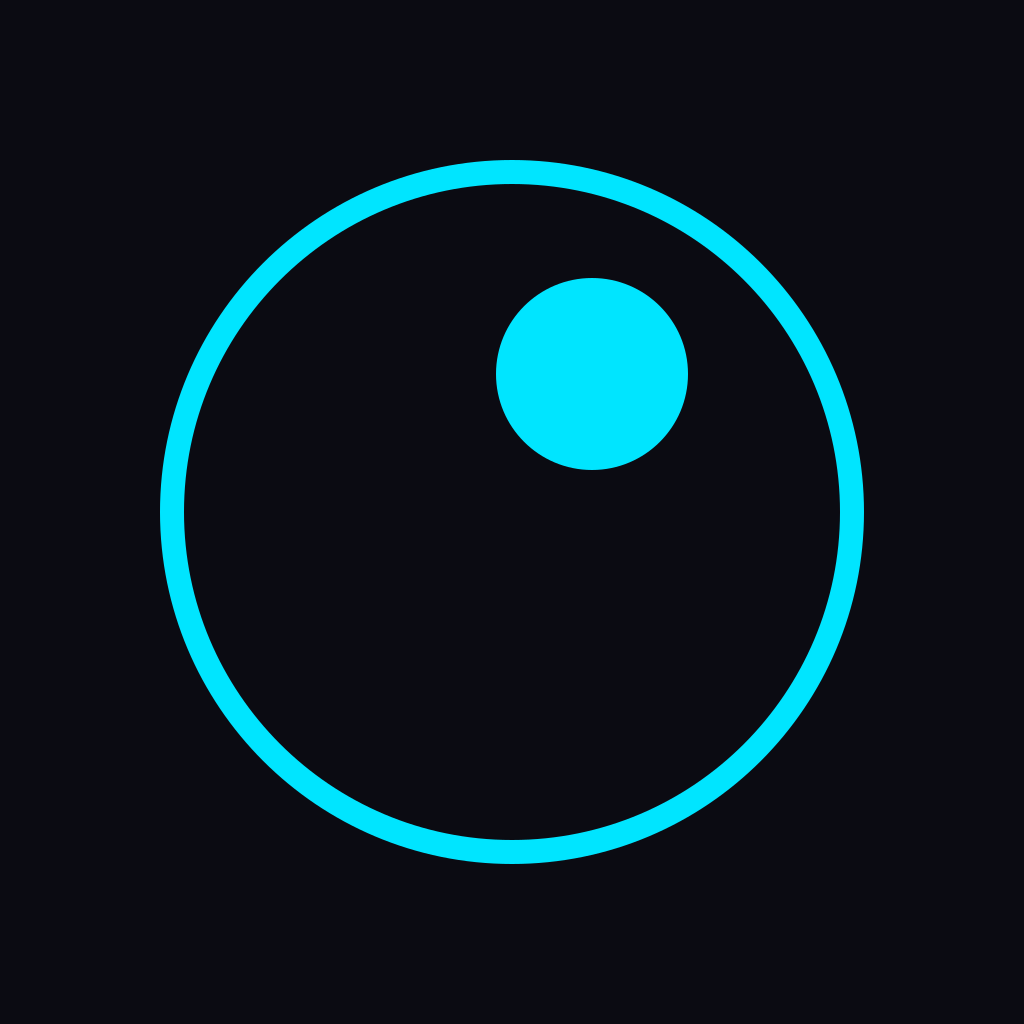
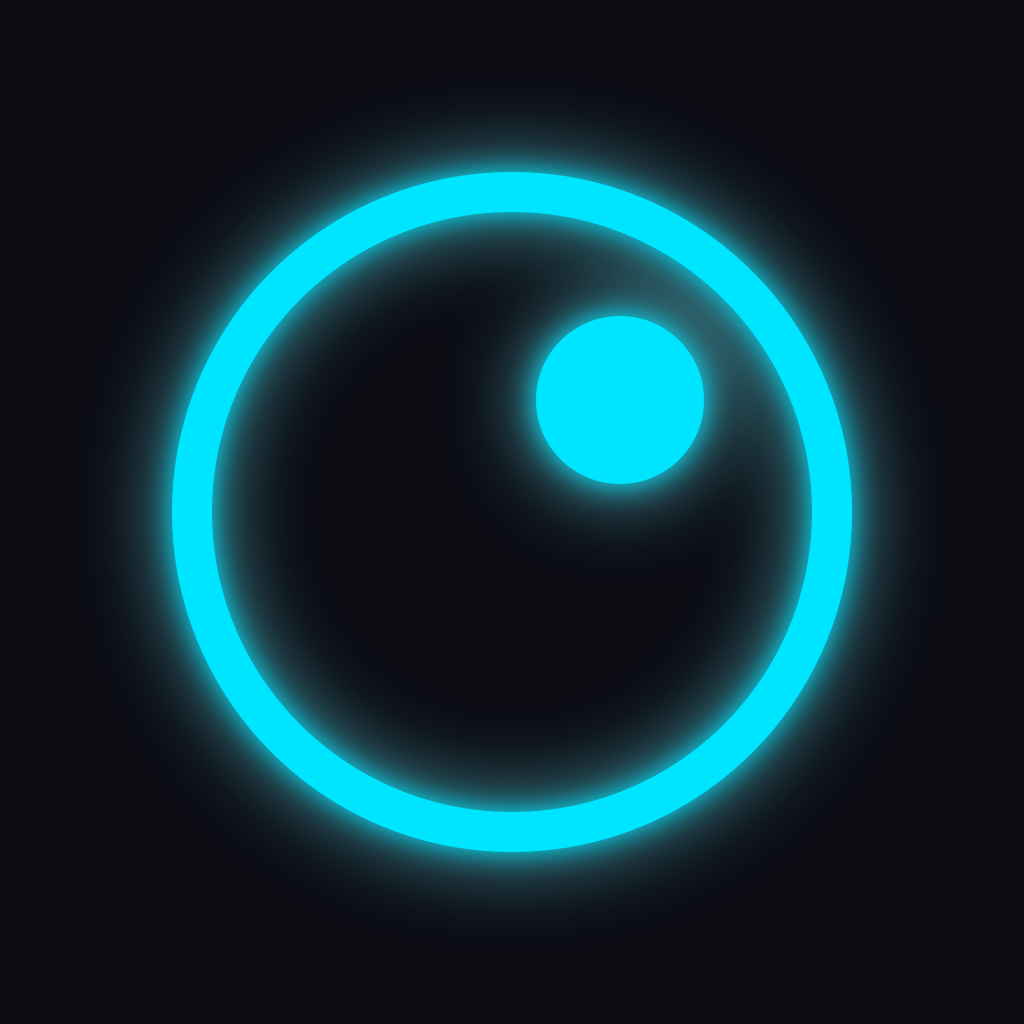
tir: TestFlight beta — status flip, CTA, fresh screenshots + OG
- studio index: tir tile flips from "coming soon" to "in TestFlight beta".
- tir/index.html: adds hero TestFlight CTA (mailto support@) + footer copy
  swap from "coming to the App Store soon" to "live on TestFlight today.
  App Store soon." with invite link.
- tir/style.css: cta-group + cta-button + cta-apple styling for the new
  TestFlight button.
- tir/images: refreshed icon-1024 / icon-180 / favicon-32 to the new
  off-center NE mark; replaced screen-game and screen-home with fresh
  iPhone 17 Pro Max captures (1320x2868); regenerated og-cover.png from
  scripts/brand/generate-og.py (sister repo).
- tir/privacy.html + tir/support.html: last-updated date bump to 2026-05-25.

Changed region(s): [[0.125, 0.125, 0.875, 0.875]]

diff --git a/tir/style.css b/tir/style.css
@@ -195,6 +195,78 @@ h1 {
   border-radius: clamp(26px, 9vw, 38px);
 }
 
+/* ----------------------------------------------------------- CTA --- */
+/* CTA button: pill, accent-on-hover. Sibling of hum's CTA pattern,
+   tinted with tir's cyan accent in the focus / hover halo. */
+
+.cta-group {
+  display: flex;
+  flex-wrap: wrap;
+  justify-content: center;
+  gap: 0.75rem;
+  margin: clamp(1.6rem, 4vw, 2.2rem) 0 0;
+}
+
+.cta-button {
+  display: inline-flex;
+  align-items: center;
+  justify-content: center;
+  gap: 0.6rem;
+  min-height: 48px;
+  padding: 0.85rem 1.6rem;
+  background: var(--text);
+  color: var(--bg);
+  font-size: 1rem;
+  font-weight: 500;
+  letter-spacing: -0.01em;
+  border-radius: 999px;
+  text-decoration: none;
+  white-space: nowrap;
+  border: 1px solid transparent;
+  transition: transform 0.15s ease, box-shadow 0.2s ease;
+}
+
+.cta-button:hover,
+.cta-button:focus-visible {
+  transform: translateY(-1px);
+  box-shadow: 0 8px 32px rgba(0, 229, 255, 0.22);
+}
+
+.cta-button:focus-visible {
+  outline: 2px solid var(--accent);
+  outline-offset: 3px;
+}
+
+.cta-button:active { transform: translateY(0); }
+
+.cta-button--secondary {
+  background: transparent;
+  color: var(--text);
+  border-color: var(--border);
+}
+
+.cta-button--secondary:hover,
+.cta-button--secondary:focus-visible {
+  border-color: var(--accent);
+  box-shadow: 0 8px 32px rgba(0, 229, 255, 0.12);
+}
+
+.cta-apple { flex-shrink: 0; }
+
+@media (max-width: 640px) {
+  .cta-group {
+    flex-direction: column;
+    align-items: stretch;
+    max-width: 22rem;
+    margin-inline: auto;
+  }
+  .cta-group .cta-button {
+    width: 100%;
+    padding: 0.9rem 1.2rem;
+    font-size: 0.98rem;
+  }
+}
+
 .trust-row {
   list-style: none;
   padding: 0;
@@ -456,7 +528,8 @@ body.page-doc .meta {
   h1            { animation: rise 0.7s cubic-bezier(.2,.7,.2,1) 0.1s both; }
   .hero-sub     { animation: rise 0.7s cubic-bezier(.2,.7,.2,1) 0.15s both; }
   .hero-stage   { animation: rise 0.8s cubic-bezier(.2,.7,.2,1) 0.22s both; }
-  .trust-row    { animation: rise 0.6s cubic-bezier(.2,.7,.2,1) 0.35s both; }
+  .cta-group    { animation: rise 0.6s cubic-bezier(.2,.7,.2,1) 0.30s both; }
+  .trust-row    { animation: rise 0.6s cubic-bezier(.2,.7,.2,1) 0.38s both; }
 }
 
 @keyframes rise {

diff --git a/tir/index.html b/tir/index.html
@@ -76,6 +76,13 @@
           </div>
         </div>
 
+        <div class="cta-group">
+          <a href="mailto:support@aaam.dev?subject=tir%20testflight%20invite" class="cta-button" aria-label="Request a TestFlight invite for tir">
+            <svg class="cta-apple" width="18" height="18" viewBox="0 0 384 512" fill="currentColor" aria-hidden="true"><path d="M318.7 268.7c-.2-36.7 16.4-64.4 50-84.8-18.8-26.9-47.2-41.7-84.7-44.6-35.5-2.8-74.3 20.7-88.5 20.7-15 0-49.4-19.7-76.4-19.7C63.3 141.2 4 184 4 276.8c0 27.3 4.9 55.6 14.7 84.9 13.1 39.1 60.3 134.9 109.4 133.2 25.7-.6 43.8-18.3 77.3-18.3 32.4 0 49.2 18.3 77.3 17.7 48.3-.8 90.8-83.8 103.6-123 .2-.7.4-1.3.6-2-61.8-26.1-64.2-92.8-64.2-100.6zM256 50.9c29-33.8 26.6-65 25.8-76.3-25.8 1.5-55.6 17.3-72.8 37.3-18.8 21.7-29.8 48.5-27.5 77.3 28.6 2.2 55.9-13.3 74.5-38.3z"/></svg>
+            join the TestFlight beta
+          </a>
+        </div>
+
         <ul class="trust-row" aria-label="what tir is">
           <li>no signup</li>
           <li>no ads</li>
@@ -126,7 +133,11 @@
 
       <section class="final-cta">
         <h2>drop in.</h2>
-        <p>coming to the App Store soon.</p>
+        <p>
+          live on TestFlight today. App Store soon.
+          <br />
+          <a href="mailto:support@aaam.dev?subject=tir%20testflight%20invite">email for an invite</a>.
+        </p>
       </section>
     </main>
 

diff --git a/tir/privacy.html b/tir/privacy.html
@@ -27,7 +27,7 @@
 
     <main class="privacy">
       <h1>privacy policy</h1>
-      <p class="meta">last updated: may 10, 2026 &middot; operator: <strong>aaam.dev</strong></p>
+      <p class="meta">last updated: may 25, 2026 &middot; operator: <strong>aaam.dev</strong></p>
 
       <h2>Who the app is for</h2>
       <p>
@@ -138,7 +138,7 @@
         <a href="support.html">support</a>
         <a href="mailto:support@aaam.dev">contact</a>
       </nav>
-      <p class="footer-meta"><a href="/">aaam.dev</a> &middot; updated may 10, 2026</p>
+      <p class="footer-meta"><a href="/">aaam.dev</a> &middot; updated may 25, 2026</p>
     </footer>
   </body>
 </html>

diff --git a/tir/support.html b/tir/support.html
@@ -36,7 +36,7 @@
           <strong>Email:</strong>
           <a href="mailto:support@aaam.dev">support@aaam.dev</a>
         </p>
-        <p class="meta">aaam.dev · last updated may 10, 2026</p>
+        <p class="meta">aaam.dev · last updated may 25, 2026</p>
       </div>
 
       <div class="card">
@@ -152,7 +152,7 @@
         <a href="privacy.html">privacy</a>
         <a href="mailto:support@aaam.dev">contact</a>
       </nav>
-      <p class="footer-meta"><a href="/">aaam.dev</a> &middot; updated may 10, 2026</p>
+      <p class="footer-meta"><a href="/">aaam.dev</a> &middot; updated may 25, 2026</p>
     </footer>
   </body>
 </html>

diff --git a/index.html b/index.html
@@ -379,7 +379,7 @@
           <div class="app-info">
             <div class="app-name">tir <span class="accent">· word race</span></div>
             <div class="app-desc">race the room to the target word.</div>
-            <div class="app-status app-status--soon"><span class="app-status-dot" aria-hidden="true"></span>coming soon</div>
+            <div class="app-status app-status--live"><span class="app-status-dot" aria-hidden="true"></span>in TestFlight beta</div>
           </div>
           <span class="app-chevron" aria-hidden="true">→</span>
         </a>
